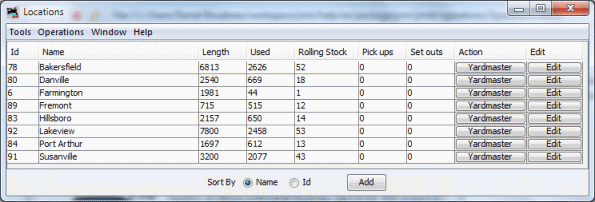
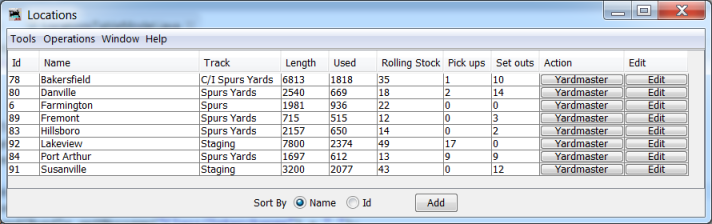
Eliminate track type abbreviations in the Locations window.

diff --git a/java/src/jmri/jmrit/operations/locations/LocationsTableModel.java b/java/src/jmri/jmrit/operations/locations/LocationsTableModel.java
@@ -87,7 +87,9 @@ public class LocationsTableModel extends javax.swing.table.AbstractTableModel im
 		// set column preferred widths
 		table.getColumnModel().getColumn(IDCOLUMN).setPreferredWidth(40);
 		table.getColumnModel().getColumn(NAMECOLUMN).setPreferredWidth(200);
-		table.getColumnModel().getColumn(TRACKCOLUMN).setPreferredWidth(70);
+		table.getColumnModel().getColumn(TRACKCOLUMN).setPreferredWidth(
+				Math.max(60, new JLabel(Bundle.getMessage("Class/Interchange") + Bundle.getMessage("Spurs")
+						+ Bundle.getMessage("Yards")).getPreferredSize().width + 20));
 		table.getColumnModel().getColumn(LENGTHCOLUMN).setPreferredWidth(
 				Math.max(60, new JLabel(getColumnName(LENGTHCOLUMN)).getPreferredSize().width + 10));
 		table.getColumnModel().getColumn(USEDLENGTHCOLUMN).setPreferredWidth(60);
@@ -225,27 +227,14 @@ public class LocationsTableModel extends javax.swing.table.AbstractTableModel im
 		if (location.getLocationOps() == Location.STAGING) {
 			return (Bundle.getMessage("Staging"));
 		} else {
-			boolean hasSpurs = location.hasSpurs();
-			boolean hasYards = location.hasYards();
-			boolean hasInterchanges = location.hasInterchanges();
-			// lots of combinations
-			if (hasSpurs && !hasYards && !hasInterchanges)
-				return Bundle.getMessage("Spurs");
-			if (!hasSpurs && hasYards && !hasInterchanges)
-				return Bundle.getMessage("Yards");
-			if (!hasSpurs && !hasYards && hasInterchanges)
-				return Bundle.getMessage("Class/Interchange");
-			if (hasSpurs || hasYards || hasInterchanges) {
-				StringBuffer sb = new StringBuffer();
-				if (hasInterchanges)
-					sb.append(Bundle.getMessage("Class/Interchange") + " ");
-				if (hasSpurs)
-					sb.append(Bundle.getMessage("SpurAbrv") + " ");
-				if (hasYards)
-					sb.append(Bundle.getMessage("YardAbrv") + " ");
-				return sb.toString();
-			}
-			return "";
+			StringBuffer sb = new StringBuffer();
+			if (location.hasInterchanges())
+				sb.append(Bundle.getMessage("Class/Interchange") + " ");
+			if (location.hasSpurs())
+				sb.append(Bundle.getMessage("Spurs") + " ");
+			if (location.hasYards())
+				sb.append(Bundle.getMessage("Yards"));
+			return sb.toString();
 		}
 	}
 
